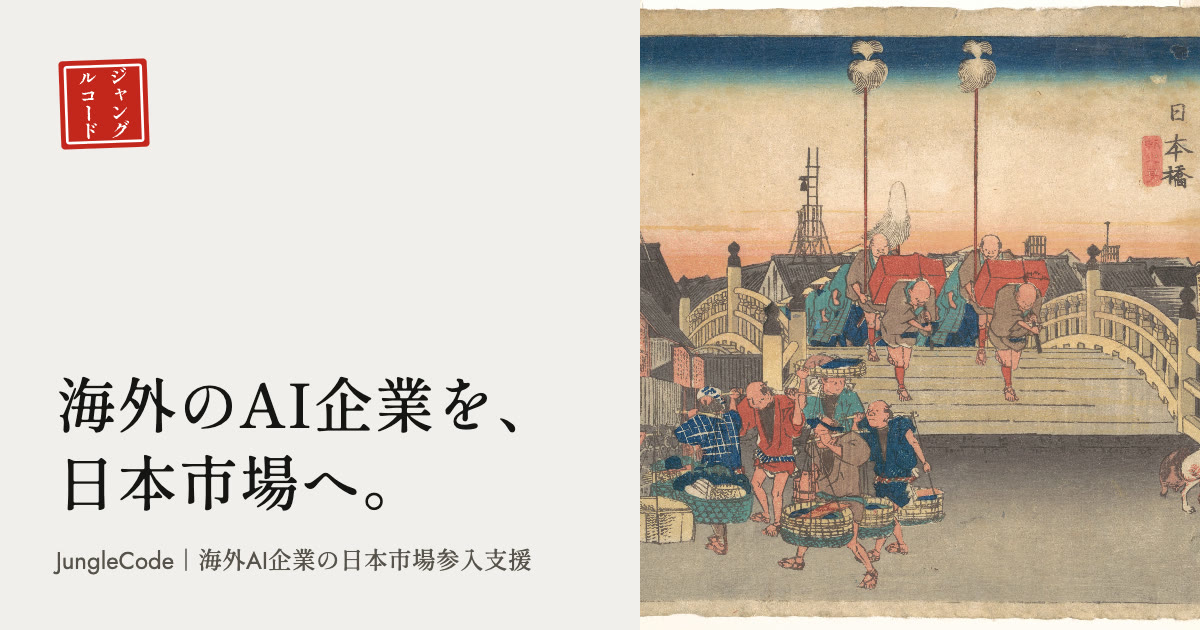
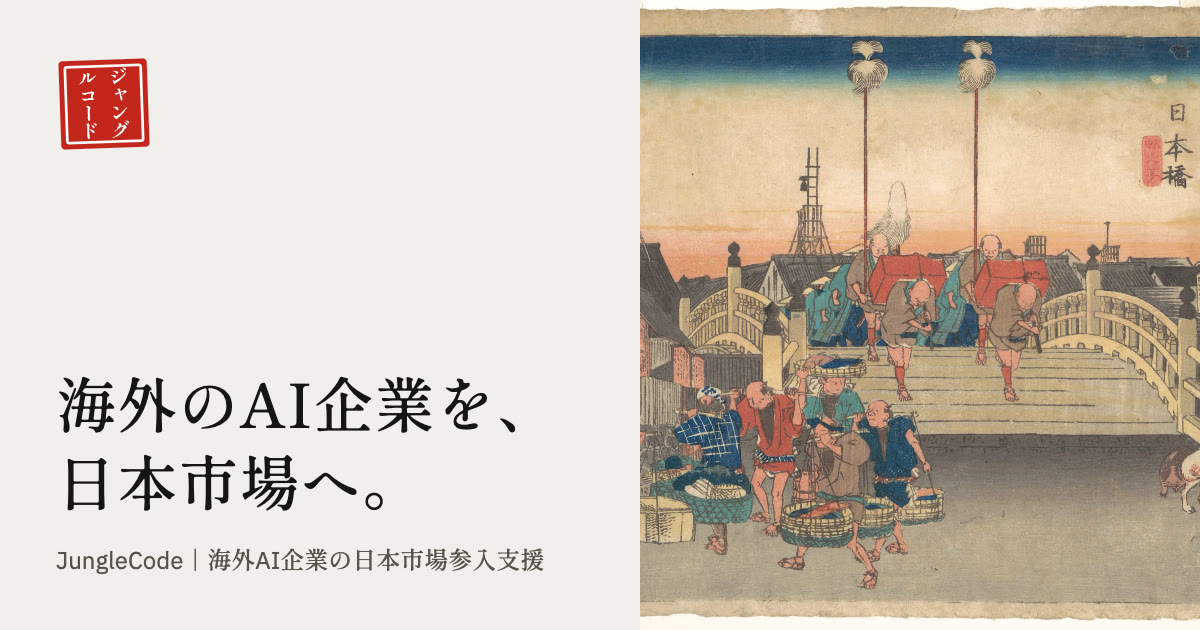
Switch to Newsreader and IBM Plex Sans
Bodoni Moda went spindly at the sizes the site uses for bios and lead text,
and Jost read as generic. Aditya chose this pairing from a specimen of the
site's real copy:

- Newsreader (optical sizes) for headlines, bios and the wordmark
- IBM Plex Sans for text and interface
- IBM Plex Sans JP for Japanese text, so body copy matches across both
  languages. Shippori Mincho B1 stays for Japanese headings and the seal

Both new faces draw macrons correctly, so English copy goes back to proper
romanization (Tōkaidō, Sanjō). The share images are re-rendered in the new
type, and phones show only the word on each sprint week tab.

Changed region(s): [[0.0308, 0.8746, 0.4625, 0.9048]]

diff --git a/src/styles/global.css b/src/styles/global.css
@@ -3,8 +3,8 @@
  * Every colour, size and space below is a token. Components reference tokens only.
  */
 
-@import '@fontsource-variable/bodoni-moda/opsz.css';
-@import '@fontsource-variable/jost/wght.css';
+@import '@fontsource-variable/newsreader/opsz.css';
+@import '@fontsource-variable/ibm-plex-sans/wght.css';
 
 /* The Japanese characters used on English pages (seal, vertical lines, terms), subset by
    scripts/subset-jp.mjs. Japanese pages add the full faces in ja-fonts.css. */
@@ -30,8 +30,8 @@
   --focus: #c3261d;
 
   /* Type */
-  --font-display: 'Bodoni Moda Variable', 'Shippori Mincho B1', 'Hiragino Mincho ProN', 'Yu Mincho', serif;
-  --font-text: 'Jost Variable', 'Zen Kaku Gothic New', 'Hiragino Sans', 'Yu Gothic', system-ui, sans-serif;
+  --font-display: 'Newsreader Variable', 'Shippori Mincho B1', 'Hiragino Mincho ProN', 'Yu Mincho', Georgia, serif;
+  --font-text: 'IBM Plex Sans Variable', 'IBM Plex Sans JP', 'Hiragino Sans', 'Yu Gothic', system-ui, sans-serif;
   --font-jp: 'Shippori Mincho B1', 'Hiragino Mincho ProN', 'Yu Mincho', serif;
 
   /* Five sizes do the visible work */
@@ -95,12 +95,12 @@
 
 :root[lang='ja'] {
   --font-display: 'Shippori Mincho B1', 'Hiragino Mincho ProN', 'Yu Mincho', serif;
-  --font-text: 'Zen Kaku Gothic New', 'Hiragino Sans', 'Yu Gothic', system-ui, sans-serif;
+  --font-text: 'IBM Plex Sans JP', 'IBM Plex Sans Variable', 'Hiragino Sans', 'Yu Gothic', system-ui, sans-serif;
 }
 
 :root[lang='ja'] [lang='en'] {
-  --font-display: 'Bodoni Moda Variable', 'Shippori Mincho B1', serif;
-  --font-text: 'Jost Variable', 'Zen Kaku Gothic New', sans-serif;
+  --font-display: 'Newsreader Variable', 'Shippori Mincho B1', Georgia, serif;
+  --font-text: 'IBM Plex Sans Variable', 'IBM Plex Sans JP', sans-serif;
 }
 :root[lang='ja'] :is(h1, h2, h3)[lang='en'] { letter-spacing: -0.02em; line-height: 0.98; }
 
@@ -120,7 +120,7 @@ body {
   font-family: var(--font-text);
   font-size: var(--step-body);
   line-height: 1.6;
-  letter-spacing: 0.01em;
+  letter-spacing: 0;
   font-weight: 400;
   -webkit-font-smoothing: antialiased;
   -moz-osx-font-smoothing: grayscale;
@@ -133,7 +133,7 @@ h1, h2, h3, .display {
   font-family: var(--font-display);
   font-weight: 500;
   font-optical-sizing: auto;
-  letter-spacing: -0.02em;
+  letter-spacing: -0.022em;
   line-height: 0.98;
   text-wrap: balance;
 }

diff --git a/src/data/en.ts b/src/data/en.ts
@@ -37,10 +37,10 @@ export const en = {
     vertical: '日本市場への道',
     verticalNote: 'The road into the Japanese market',
     plates: [
-      { key: 'nihonbashi', alt: 'Porters and a daimyo procession crossing Nihonbashi bridge at dawn', caption: 'Utagawa Hiroshige, Morning View of Nihonbashi, about 1833 to 1834. Every journey on the Tokaido began here.' },
+      { key: 'nihonbashi', alt: 'Porters and a daimyo procession crossing Nihonbashi bridge at dawn', caption: 'Utagawa Hiroshige, Morning View of Nihonbashi, about 1833 to 1834. Every journey on the Tōkaidō began here.' },
       { key: 'hakone', alt: 'Travelers climbing a steep, many-coloured mountain pass above Lake Ashi', caption: 'Utagawa Hiroshige, Hakone, the Lake. The steepest stretch of the road.' },
       { key: 'mishima', alt: 'Travelers and a palanquin passing a shrine gate in heavy morning mist', caption: 'Utagawa Hiroshige, Mishima, Morning Mist. Arriving before the view is clear.' },
-      { key: 'kyoto', alt: 'Travelers crossing the long red Sanjo bridge into Kyoto below the mountains', caption: 'Utagawa Hiroshige, Kyoto, the Great Bridge at Sanjo. The last station.' },
+      { key: 'kyoto', alt: 'Travelers crossing the long red Sanjō bridge into Kyoto below the mountains', caption: 'Utagawa Hiroshige, Kyoto, the Great Bridge at Sanjō. The last station.' },
     ],
     cards: {
       healthcare: { title: 'Healthcare AI in Japan', href: '/healthcare/' },
@@ -88,7 +88,7 @@ export const en = {
   route: {
     id: 'route',
     title: 'The route',
-    intro: 'The old Tokaido ran 53 stations from Nihonbashi to Kyoto. A market entry has four, and each one ends with something you can use.',
+    intro: 'The old Tōkaidō ran 53 stations from Nihonbashi to Kyoto. A market entry has four, and each one ends with something you can use.',
     leaveLabel: 'You leave with',
     stations: [
       { key: 'discover', name: 'Discover', jp: '発見', plate: 'nihonbashi', duration: 'Two to four weeks', text: 'We test whether Japan fits your product now, with real conversations rather than desk research.', leave: 'A go or not-yet decision and an entry brief' },

diff --git a/src/styles/ja-fonts.css b/src/styles/ja-fonts.css
@@ -1,5 +1,5 @@
 /* Full Japanese faces, loaded on Japanese pages only. Each is split by unicode-range,
    so a page downloads only the slices its characters need. */
 @import '@fontsource/shippori-mincho-b1/500.css';
-@import '@fontsource/zen-kaku-gothic-new/400.css';
-@import '@fontsource/zen-kaku-gothic-new/500.css';
+@import '@fontsource/ibm-plex-sans-jp/400.css';
+@import '@fontsource/ibm-plex-sans-jp/500.css';

diff --git a/src/content/notes/ai-healthcare-path-before-paperwork.md b/src/content/notes/ai-healthcare-path-before-paperwork.md
@@ -30,7 +30,7 @@ For AI that keeps learning, the scheme to understand is IDATEN, short for Improv
 
 ## Approval isn't adoption
 
-Approval doesn't mean anyone will pay. Coverage under shinryo hoshu (診療報酬), the national fee schedule that sets what insured care pays, is a separate decision. MHLW makes it after deliberation at Chuikyo (中医協), the Central Social Insurance Medical Council, and the fee schedule is revised every two years, most recently for fiscal 2026. Recent revisions have added rules specific to software, including limited routes for using approved software outside standard coverage. Your reimbursement plan has to line up with that two-year calendar, so use the insurance consultation early and work out who in the hospital pays if your product isn't separately reimbursed.
+Approval doesn't mean anyone will pay. Coverage under shinryō hōshū (診療報酬), the national fee schedule that sets what insured care pays, is a separate decision. MHLW makes it after deliberation at Chuikyo (中医協), the Central Social Insurance Medical Council, and the fee schedule is revised every two years, most recently for fiscal 2026. Recent revisions have added rules specific to software, including limited routes for using approved software outside standard coverage. Your reimbursement plan has to line up with that two-year calendar, so use the insurance consultation early and work out who in the hospital pays if your product isn't separately reimbursed.
 
 Then the hospital has to use it, which in practice means the EMR. Adoption is uneven. In MHLW's 2023 survey of medical facilities, 93.7% of general hospitals with 400 or more beds had an EMR, compared with 59.0% of those under 200 beds and 55.0% of general clinics. MHLW describes current systems as on-premise and customized and wants to move toward cheaper cloud-native ones, and the government's goal is for nearly every medical institution to run an EMR that can share needed patient information by 2030 at the latest.
 

diff --git a/src/content/notes/first-week-tokyo-meetings.md b/src/content/notes/first-week-tokyo-meetings.md
@@ -34,7 +34,7 @@ Don't push for an answer. JETRO's guide warns that pressing for an immediate res
 
 Send a written summary the same day or the next morning. Keep it short and factual, in Japanese and English if you can. Cover what you heard, what you agreed, the open questions and the next steps with owners and dates. Your counterpart may forward it internally, so write it for people who weren't in the room. JETRO's guide recommends confirming meeting results in writing, and it's the cheapest way to show you'll be easy to work with.
 
-Then there's kento shimasu (検討します), "we will consider it." Sometimes it means exactly that, and your proposal is going into an internal process. Sometimes it's a polite way to close the topic without saying no. JETRO's guide notes that if nothing follows "we will consider it," the answer may be no. You can tell the difference by asking about the process instead of the answer. Ask what they'd need from you to evaluate it, who else should see it and when it would make sense to check in. If those questions get concrete answers, you're in a process. If they don't, treat it as a no for now and keep the relationship warm.
+Then there's kentō shimasu (検討します), "we will consider it." Sometimes it means exactly that, and your proposal is going into an internal process. Sometimes it's a polite way to close the topic without saying no. JETRO's guide notes that if nothing follows "we will consider it," the answer may be no. You can tell the difference by asking about the process instead of the answer. Ask what they'd need from you to evaluate it, who else should see it and when it would make sense to check in. If those questions get concrete answers, you're in a process. If they don't, treat it as a no for now and keep the relationship warm.
 
 <p class="editor-prompt">FOUNDER EXAMPLE: a time a Japanese partner's "we will consider it" meant no</p>
 

diff --git a/README.md b/README.md
@@ -39,11 +39,10 @@ Front matter: `title`, `description`, `date`, `authors`, `summary_ja` (shown on 
 
 ## Fonts and the seal
 
-- Latin type is Bodoni Moda (display) and Jost (text), self-hosted through Fontsource. The site makes no third-party requests.
-- English pages use a 21 KB subset of Shippori Mincho B1 for the few Japanese characters they show. Japanese pages load the full Shippori Mincho B1 and Zen Kaku Gothic New from `src/styles/ja-fonts.css`.
+- Latin type is Newsreader (display, with optical sizes) and IBM Plex Sans (text), self-hosted through Fontsource. The site makes no third-party requests.
+- English pages use a 21 KB subset of Shippori Mincho B1 for the few Japanese characters they show. Japanese pages load the full Shippori Mincho B1 and IBM Plex Sans JP from `src/styles/ja-fonts.css`.
 - After changing Japanese text in `en.ts`, rebuild the subset with `node scripts/subset-jp.mjs`. It needs `uv` and the Shippori TTFs in `.taste-skill/fonts/` (instructions at the top of the script).
 - `public/favicon.svg` is the seal with its katakana converted to outlines (`scripts/seal-svg.py`). The PNG icons and the share images (`og.jpg`, `og-ja.jpg`) were rendered from it in Chrome.
-- English copy writes Japanese words without macrons (Tokaido, not Tōkaidō), because the variable Latin fonts draw the combining macron badly.
 
 ## Images
 
